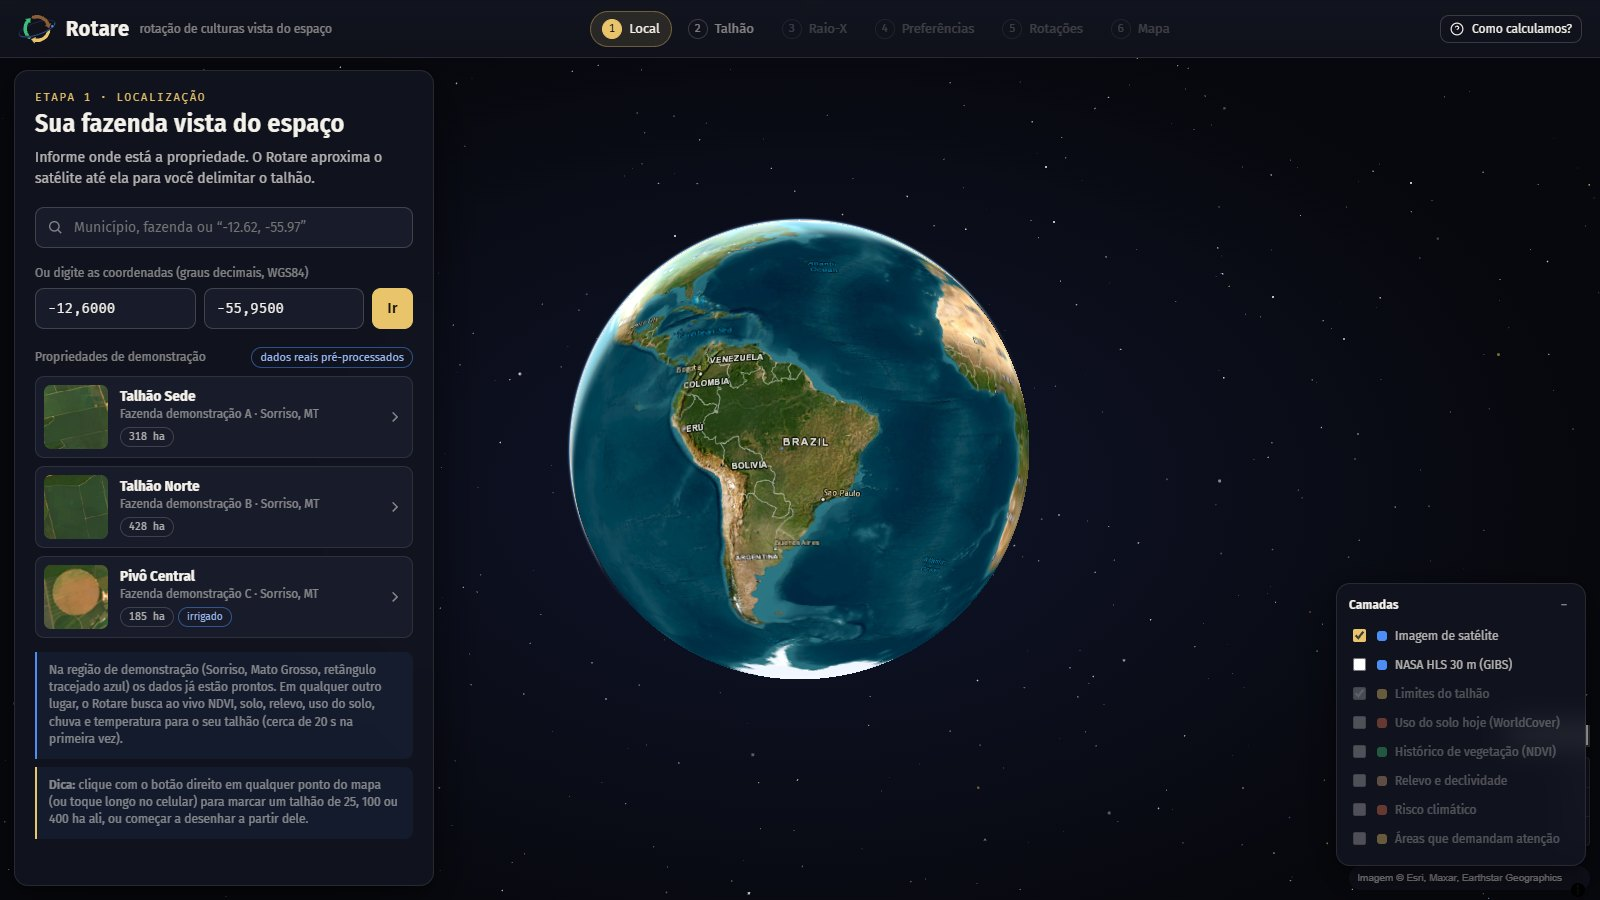
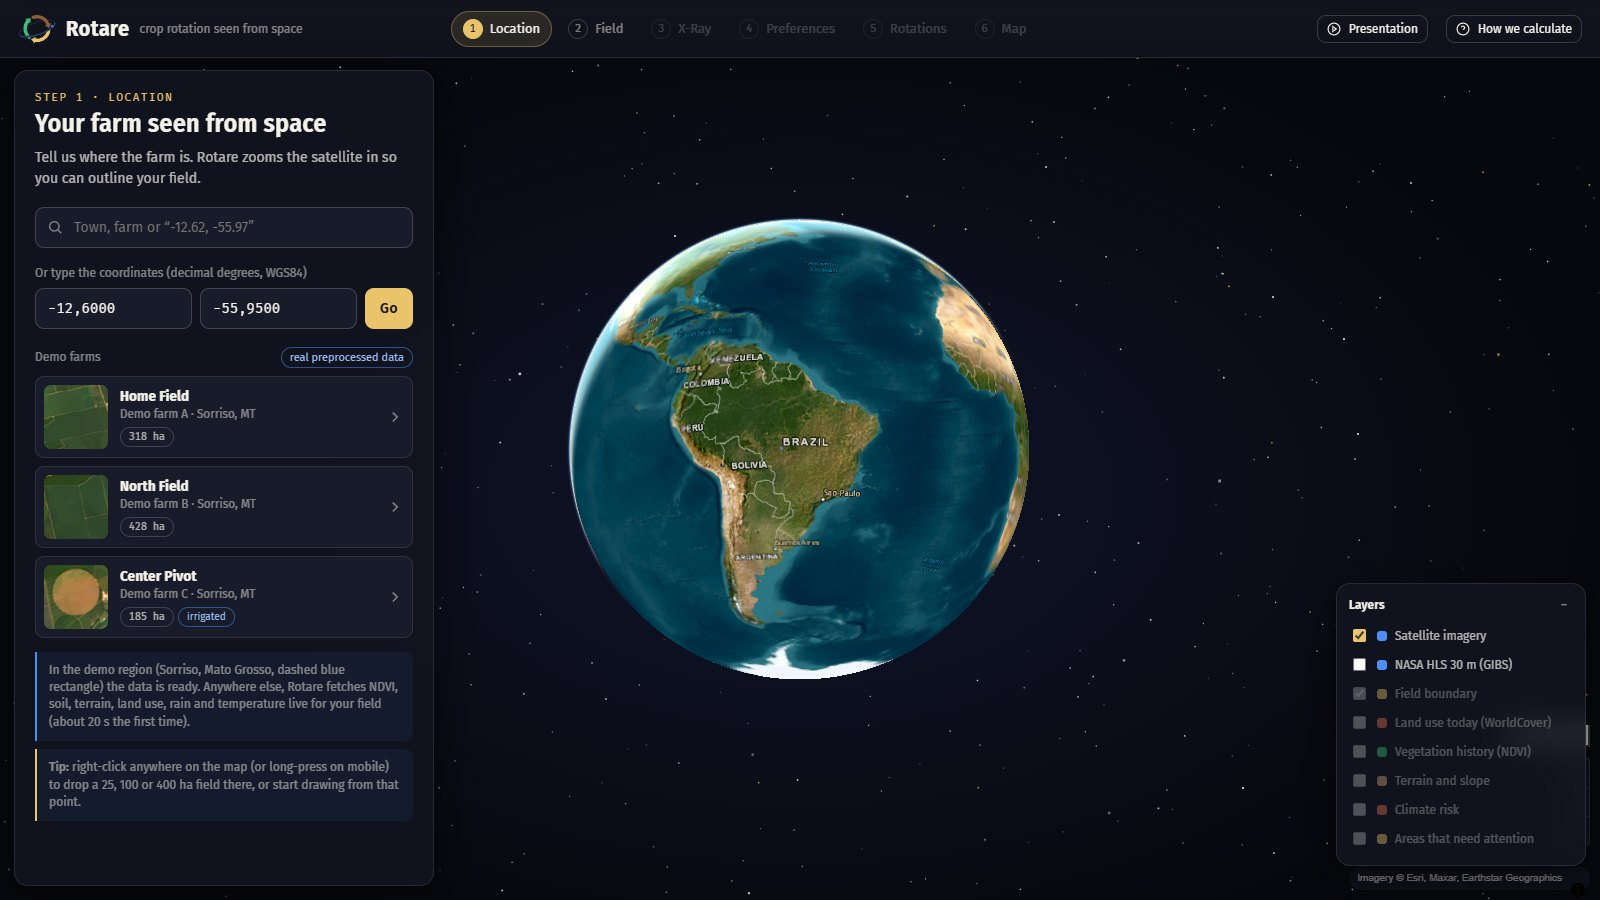
docs(readme): add live demo links, English screenshots, and updated limitations

diff --git a/README.md b/README.md
@@ -11,10 +11,15 @@
 [![Tests](https://img.shields.io/badge/Tests-19%20Passing-3DBE7A)](app/tests/)
 [![Python 3.11+](https://img.shields.io/badge/Python-3.11+-4C8DF6?logo=python&logoColor=white)](https://www.python.org/)
 [![License: MIT](https://img.shields.io/badge/License-MIT-3DBE7A)](LICENSE)
+[![Live demo](https://img.shields.io/badge/Live%20demo-rotare.vercel.app-E9C46A)](https://rotare.vercel.app/explorar)
 
 **Rotare helps farmers compare three-year crop rotations using NASA satellite data, a deterministic FAO-based engine and an interactive satellite map.**
 
 *Built by **Datanauts Brasil** (São Paulo) for the NASA Space Apps Challenge 2026 · Challenge: **Field Shift — Adapting Farms with NASA Data***
+
+### [🌐 Open the platform](https://rotare.vercel.app/explorar) · [🎬 Watch the presentation](https://rotare.vercel.app/) · [💻 Source code](https://github.com/GabrielHenriqueCA/field-shift-farm-insights)
+
+*Draw any field on Earth: NASA satellite and climate data arrive live in about 15 to 30 seconds. No account needed.*
 
 </div>
 
@@ -23,11 +28,11 @@
 ## 📋 Contents
 
 - [Overview](#-overview)
-- [Plataform Interface](#-plataform-interface)
+- [Platform Interface](#-platform-interface)
 - [How It Works](#-how-it-works)
 - [Data Sources](#-data-sources)
 - [Early Findings](#-early-findings)
-- [Known Limitations](#-known-limitations)
+- [Known Limitations](#-known-limitations)
 - [Use of Artificial Intelligence (SI)](#-use-of-artificial-intelligence-si)
 - [Team](#-team--datanauts-brasil)
 - [License](#-license)
@@ -61,22 +66,24 @@ The farmer sets the priorities, and Rotare shows the numbers behind every result
 
 ---
 
-## 🖥 Plataform Interface
+## 🖥 Platform Interface
 
 **Journey:** Coordinate → Farm on satellite → Draw the field → X-ray analysis → Set priorities → 3-year rotations → Climate simulator → Smart map.
 
-*Real screenshots of the working app (Talhão Sede, Sorriso, MT, real data).*
+*Real screenshots of the working app (Home Field demo, Sorriso, MT, real data). Try the same journey at [rotare.vercel.app/explorar](https://rotare.vercel.app/explorar).*
 
 | | |
 | --- | --- |
 | <img src="assets/img/app/01-globo.jpg" alt="Step 1: search by place name or coordinate on the satellite globe" /> | <img src="assets/img/app/02-talhao.jpg" alt="Step 2: draw the field; geodesic area updates live" /> |
-| **1. Location.** Search a town, farm or `lat, lon`, or right-click anywhere on the map. | **2. Field.** Rectangle, polygon or free vertices; the geodesic area (WGS84) updates live. |
-| <img src="assets/img/app/03-raio-x.jpg" alt="Step 3: X-ray with land cover and 10 years of NDVI history" /> | <img src="assets/img/app/04-prioridades.jpg" alt="Step 4: priorities from free text turned into weights" /> |
-| **3. X-ray.** Current land cover inside the polygon (ESA WorldCover 10 m), 10+ seasons of MODIS NDVI and the inferred crop history. | **4. Priorities.** Free text becomes weights that the farmer can adjust. |
-| <img src="assets/img/app/06-el-nino.jpg" alt="Step 5: El Niño mode reorders the ranking and shows each analog year" /> | <img src="assets/img/app/07-explicacao.jpg" alt="Explainability: why, benefits, risks and what we don't know" /> |
-| **5. El Niño mode.** The ranking is recomputed over the 6 strong El Niño seasons, showing each analog year rather than an average. | **Explainability.** Why / Benefits / Risks / What we don't know, built only from engine numbers. |
-| <img src="assets/img/app/08-mapa.jpg" alt="Step 6: smart map with climate risk and attention areas" /> | <img src="assets/img/app/09-area-urbana-bloqueada.jpg" alt="An urban polygon in Campinas is flagged as 99 percent buildings and blocked" /> |
-| **6. Smart map.** Climate risk, slope and attention areas on the field. | **Honest about any location.** A polygon in downtown Campinas is 99% buildings, so the app refuses to recommend rotations. |
+| **1. Location.** Search a town, farm or `lat, lon`, pick a demo farm, or right-click anywhere on the map. | **2. Field.** Rectangle, polygon or free vertices; the geodesic area (WGS84) updates live. |
+| <img src="assets/img/app/03-raio-x.jpg" alt="Step 3: X-ray with land cover, soil, rain, drought risk, terrain and 10 years of NDVI" /> | <img src="assets/img/app/04-prioridades.jpg" alt="Step 4: priorities from free text turned into weights" /> |
+| **3. X-ray.** Land cover inside the polygon (ESA WorldCover 10 m), soil, rain, second-crop drought risk, terrain and 10+ seasons of MODIS NDVI. | **4. Priorities.** "Protect the soil and lower drought risk" becomes weights (29 / 47 / 12 / 12) that the farmer can adjust. |
+| <img src="assets/img/app/05-rotacoes.jpg" alt="Step 5: three-year rotations ranked next to the current rotation" /> | <img src="assets/img/app/06-el-nino.jpg" alt="El Niño mode re-ranks the rotations over the 6 strong El Niño seasons" /> |
+| **5. Rotations.** 83 valid combinations tested against 30 real seasons. *Farm balance* keeps income close to the current rotation (74 vs. 76) while soil health goes from 44 to 84. | **El Niño mode.** The ranking is recomputed over the 6 strong El Niño seasons, showing how often each rotation failed. |
+| <img src="assets/img/app/07-explicacao.jpg" alt="Explainability: why Rotare recommended this rotation" /> | <img src="assets/img/app/08-mapa.jpg" alt="Step 6: smart map with the saved plan, climate risk and attention areas" /> |
+| **Explainability.** "In a few words", plus benefits, risks and what we don't know, built only from engine numbers. | **6. Smart map.** The saved plan on the field, with climate risk, slope and native-vegetation attention areas. |
+| <img src="assets/img/app/09-minhas-safras.jpg" alt="My crops: saved plans kept for one hour in the browser" /> | |
+| **My crops.** Save a plan and come back to it: kept for 1 hour in the browser, with no account and no data sent anywhere. | |
 
 ### 📱 Mobile View
 
@@ -84,8 +91,8 @@ The platform runs in the phone browser with the same journey. The panels open as
 
 | | |
 | --- | --- |
-| <img src="assets/img/app/10-celular.jpg" alt="Rotare on a phone: the satellite map with the analysis panel as a bottom sheet" width="320" /> | <img src="assets/img/app/11-menu-botao-direito.jpg" alt="Right-click menu: mark a 25, 100 or 400 ha field at that point or start drawing from it" /> |
-| **Bottom sheet.** Every step of the journey fits the phone screen. | **Right-click menu.** Right-click (or long-press on mobile) to see the place and coordinate, mark a 25 / 100 / 400 ha field, start drawing from that point or copy the coordinate. |
+| <img src="assets/img/app/10-celular.jpg" alt="Rotare on a phone: the field X-ray as a bottom sheet over the satellite map" width="320" /> | <img src="assets/img/app/11-menu-botao-direito.jpg" alt="Right-click menu: mark a 25, 100 or 400 ha field at that point or start drawing from it" /> |
+| **Bottom sheet.** Every step of the journey fits the phone screen. | **Right-click menu.** Right-click (or long-press on mobile) to see the place and coordinate, drop a 25 / 100 / 400 ha field, start drawing from that point or copy the coordinate. |
 
 ---
 
@@ -109,7 +116,7 @@ flowchart TD
     ZON["Zonal statistics on the polygon<br/>NDVI · WorldCover · MapBiomas · SoilGrids · SRTM"]
     HIST["Crop history<br/>NDVI phenology rules"]
     WB["Daily water balance, 30 seasons<br/>FAO-56 + FAO-33 · CHIRPS rain · POWER temperature"]
-    RANK["84 three-year combinations<br/>4 scores, weighted by the farmer's priorities"]
+    RANK["83 valid three-year combinations<br/>4 scores, weighted by the farmer's priorities"]
     OUT["Ranked cards · El Niño mode<br/>explanations · smart map"]
 
     DEMO --> ZON
@@ -122,7 +129,7 @@ flowchart TD
 2. **X-ray** ([`app/js/geo/zonal.js`](app/js/geo/zonal.js)). The grids are cut to the drawn polygon: current land cover (WorldCover), land use since 2014 (MapBiomas), soil texture and carbon (SoilGrids 0–30 cm) and slope (SRTM). Urban or non-agricultural areas are blocked.
 3. **Crop history** ([`app/js/motor/historico.js`](app/js/motor/historico.js)). Simple phenology rules on the monthly NDVI curve infer each past season's crops. The result is always an inference that the farmer confirms or corrects.
 4. **Water balance** ([`app/js/motor/balanco.js`](app/js/motor/balanco.js)). For each of the 30 most recent complete seasons, the engine simulates soybean at the start of the rains followed by each second-crop option. It uses a daily root-zone water balance (FAO-56) and the yield response to water deficit (FAO-33), with CHIRPS rainfall and Hargreaves ET₀ from NASA POWER temperatures. Crop parameters are in [`app/js/motor/catalogo.js`](app/js/motor/catalogo.js).
-5. **Ranking** ([`app/js/motor/rotacao.js`](app/js/motor/rotacao.js)). There are seven second-crop options: corn, sorghum, cotton, millet, brachiaria, corn + brachiaria and fallow. They form 84 three-year combinations, and agronomic rules remove the invalid ones (for example, cotton two years in a row). Each combination gets four scores from 0 to 100: soil health (an index inspired by the USDA-NRCS Soil Conditioning Index), climate risk, water use and relative return. The cards show the farmer's current rotation, the best rotation for *Farm balance*, *Soil conservation* and *Climate resilience*, and one *Tailored to you* option that uses the farmer's own weights.
+5. **Ranking** ([`app/js/motor/rotacao.js`](app/js/motor/rotacao.js)). There are seven second-crop options: corn, sorghum, cotton, millet, brachiaria, corn + brachiaria and fallow. They form 84 three-year combinations, and agronomic rules remove the invalid ones (for example, cotton two years in a row), leaving 83 for the demo field. Each combination gets four scores from 0 to 100: soil health (an index inspired by the USDA-NRCS Soil Conditioning Index), climate risk, water use and relative return. The cards show the farmer's current rotation, the best rotation for *Farm balance*, *Soil conservation* and *Climate resilience*, and one *Tailored to you* option that uses the farmer's own weights.
 6. **Climate simulator.** Rainfall and temperature can be shifted, and El Niño mode replays only the 6 strong El Niño seasons (NOAA ONI). The cards keep their sequences and are re-ranked.
 7. **Explanations** ([`app/js/explica.js`](app/js/explica.js)). Rules turn the engine numbers into text. No number is created at this step.
 
@@ -213,7 +220,7 @@ Computed from [`data/sorriso/csv/`](data/sorriso/csv/) (`imerg.csv`, `resumo_saf
 | **Satellite latency** | IMERG Final arrives ~3.5 months late | Recent months use CHIRPS; incomplete IMERG seasons are flagged |
 | **Crop parameters** | Kc, Ky and residue values come from literature (FAO-56, FAO-33, Embrapa) | Sources are cited in the code; the return index is relative, not a price |
 | **El Niño** | Analog analysis of past seasons, not a weather forecast | Shows how past strong El Niño seasons affected this field, year by year |
-| **Coverage** | The published site has data only for the Sorriso region | Other areas need the local server with Google Earth Engine |
+| **Coverage** | The method is calibrated and checked against official yields only in Sorriso, MT | Any other field is analysed live (Google Earth Engine through the [`/api`](api/) serverless function, ~15 to 30 s); results outside Sorriso are indicative |
 
 ---
 
@@ -222,16 +229,13 @@ Computed from [`data/sorriso/csv/`](data/sorriso/csv/) (`imerg.csv`, `resumo_saf
 *In line with the **NASA Space Apps Challenge 2026 Rules** and the **Use of Super Intelligence (SI) Policy**:*
 
 **1. Idea and decisions.** The team chose the Field Shift challenge and decided Rotare's concept, scope and priorities in its own ideation session. Before the event, AI tools were used as **research support** to analyse the challenge, past Space Apps projects, existing tools and candidate approaches. The team discussed these options and made the final decisions. That research document is not part of this repository.
-
-<!-- TEAM: confirm that the paragraph above describes how the idea was decided. If in doubt, check with the event mentors. -->
-
-**2. Code and documentation.** AI coding assistants (Claude by Anthropic) wrote much of the code under the team's direction: the data collection pipeline ([`coleta/`](coleta/)), the decision engine, map and interface ([`app/js/`](app/js/)), the local data server and the first drafts of this README and [REFERENCES.md](REFERENCES.md). The team defined the method, reviewed, ran and edited the code, and approved the data sources, some of which were suggested by AI (for example CHIRPS and IBGE SIDRA). Every AI-assisted code file carries a disclosure comment at the top.
+**2. Code and documentation.** AI coding assistants (Claude by Anthropic) wrote much of the code under the team's direction: the data collection pipeline ([`coleta/`](coleta/)), the decision engine, map and interface ([`app/js/`](app/js/)), the live data API ([`api/`](api/) and the local [`app/servidor.py`](app/servidor.py)), the presentation and the first drafts of this README and [REFERENCES.md](REFERENCES.md). The team defined the method, reviewed, ran and edited the code, and approved the data sources, some of which were suggested by AI (for example CHIRPS and IBGE SIDRA). Every AI-assisted code file carries a disclosure comment at the top.
 
 **3. Data integrity.** **No data values were generated by AI.** Every rainfall total, temperature, soil property, yield and risk value comes from the open data listed in [REFERENCES.md](REFERENCES.md), processed by the deterministic code in this repository.
 
 **4. No AI in the results.** The engine and the explanations are rules and formulas. No language model takes part in the ranking or writes the explanation text that the farmer sees.
 
-**5. Images.** The README images are real screenshots of the working app. The Rotare logo was vectorised with AI help from the team's own design.
+**5. Images and media.** The README images are real screenshots of the working app. The Rotare logo was vectorised with AI help from the team's own design. In the presentation, the notebook sketch ("How we imagined it") was hand-drawn by the team, and one concept image ("How we designed it") was generated with AI and is labeled "AI-generated image" on the page. The background music is "Ambient Space Cinematic" by Viacheslav Starostin (Pixabay Content License).
 
 No NASA logo, flag or official mission identifier is altered or misused in this project.
 
